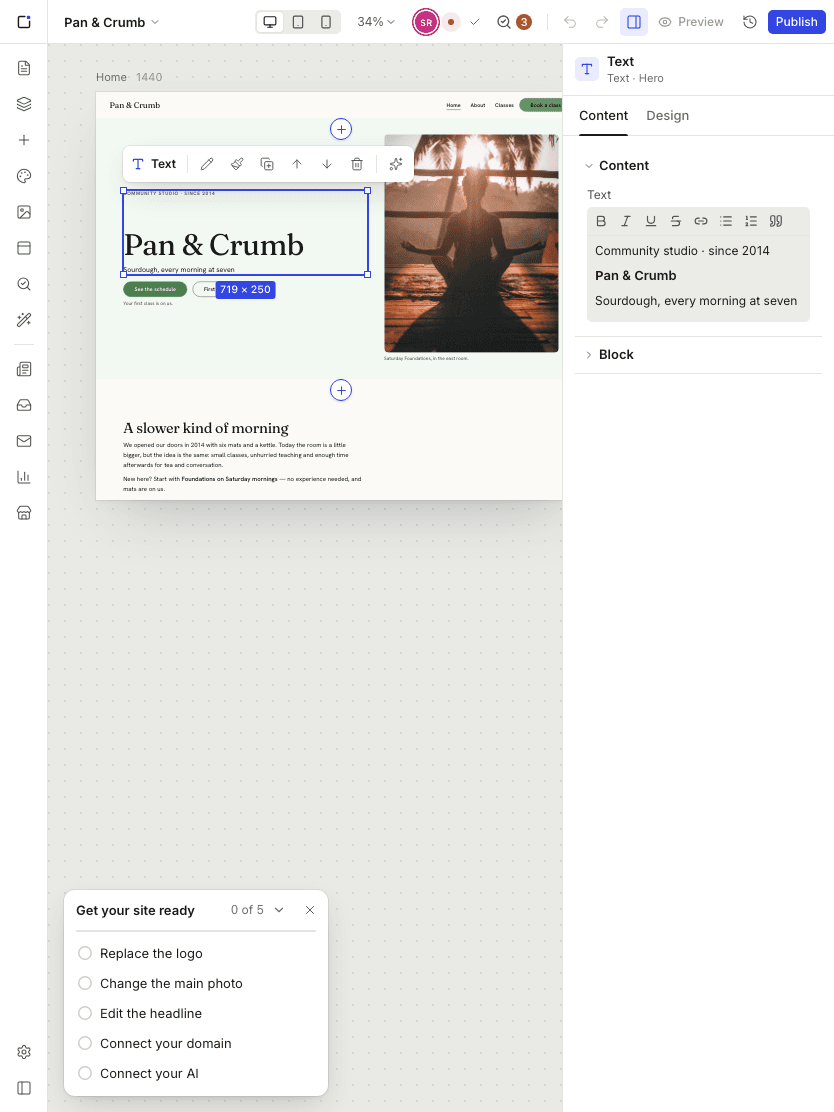
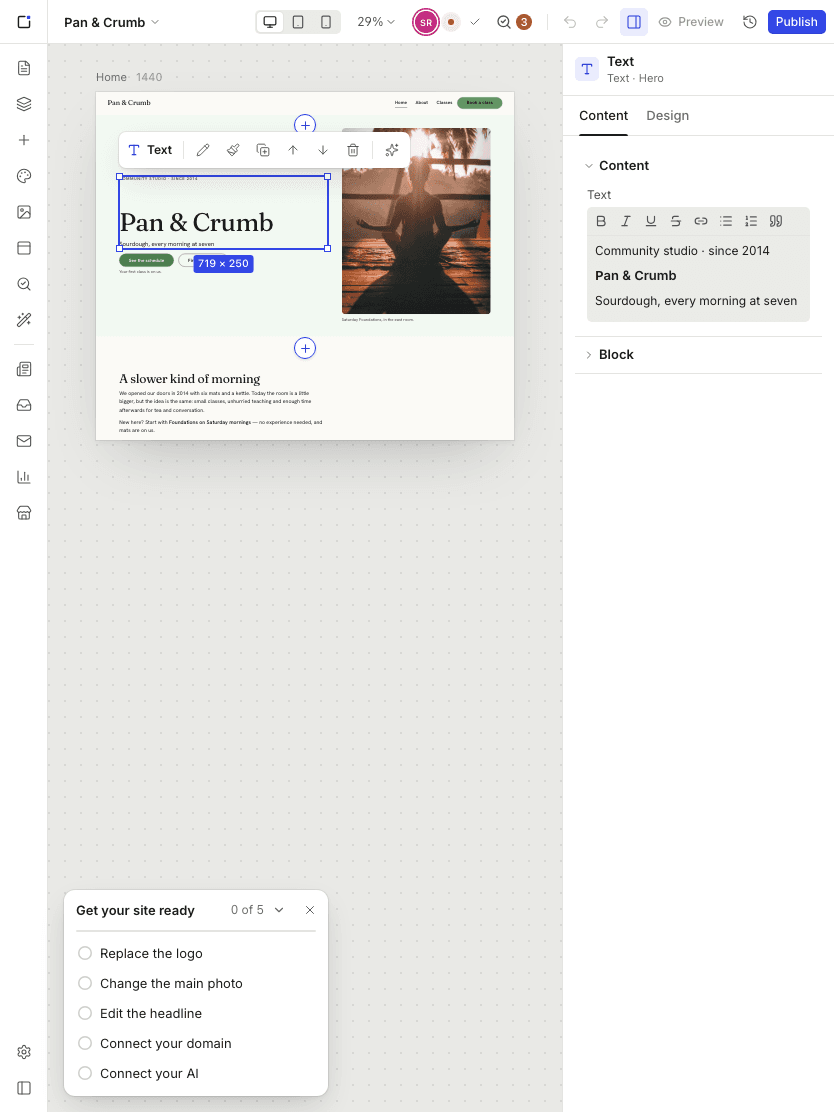
fix(studio): fit zoom measures the canvas's real padding so the page never runs under the inspector on tablets; the tour flags pages hidden by panels
Claude-Session: https://claude.ai/code/session_01B811pXCH1tNmT6Kf1kkWJz

Changed region(s): [[0.0935, 0.0612, 0.6859, 0.4586]]

diff --git a/apps/studio/src/features/editor/canvas/Canvas.tsx b/apps/studio/src/features/editor/canvas/Canvas.tsx
@@ -98,10 +98,17 @@ export function Canvas({
   useLayoutEffect(() => {
     const el = ref.current;
     if (!el) return;
+    // Fit inside the canvas's real padding (a 514px tablet canvas still pads 48px each side;
+    // assuming phone padding there pushed the page under the inspector).
     const measure = () => {
-      const avail = el.clientWidth - (el.clientWidth < 768 ? 24 : 96);
+      const cs = getComputedStyle(el);
+      const padX =
+        (Number.parseFloat(cs.paddingLeft) || 0) + (Number.parseFloat(cs.paddingRight) || 0);
+      const padY =
+        (Number.parseFloat(cs.paddingTop) || 0) + (Number.parseFloat(cs.paddingBottom) || 0);
+      const avail = el.clientWidth - padX;
       if (avail > 0) setFitScale(Math.min(1, avail / device));
-      setAvailH(el.clientHeight - (el.clientWidth < 768 ? 40 : 96));
+      setAvailH(el.clientHeight - padY);
     };
     measure();
     const ro = new ResizeObserver(measure);

diff --git a/docs/qa/studio.md b/docs/qa/studio.md
@@ -28,10 +28,16 @@ below are in priority order, each with the fix. Before/after pairs are in [studi
      their dot and icon (the words stay for screen readers and in the tooltip), and the page
      name hides.
    - [before](studio/block-selected-834-light-before.png) / [after](studio/block-selected-834-light-after.png)
-2. **Canvas squeezed to 268 px on tablets** with both side panels open.
-   - Fix: between 768 and 1099 px the editor opens with the canvas only, and selecting
-     something trades the left panel for the inspector (one side panel at a time; the rail
-     brings it back).
+2. **Canvas squeezed to 268 px on tablets** with both side panels open, and **the page ran
+   under the inspector**: the fit zoom assumed phone padding (24 px) whenever the canvas was
+   narrower than 768 px, though the canvas still pads 48 px each side.
+   - Fix: between 768 and 1099 px there is one side panel at a time, enforced by every panel
+     action. The rail closes the inspector; the inspector toggle closes the left panel; a pick
+     on the canvas shows the inspector; a pick in Layers keeps Layers.
+   - The fit zoom measures the canvas's real padding. The tour now flags a page that runs
+     under a side panel or past the canvas.
+   - [after, inspector](studio/block-selected-834-light-after.png) /
+     [after, Layers](studio/panel-layers-834-light-after.png)
 3. **Phone preview toolbar ran off the screen** (390 px; a Task 26 concern). The block
    toolbar's last buttons were clipped.
    - Fix: floating toolbars are capped to the page width and scroll sideways.
